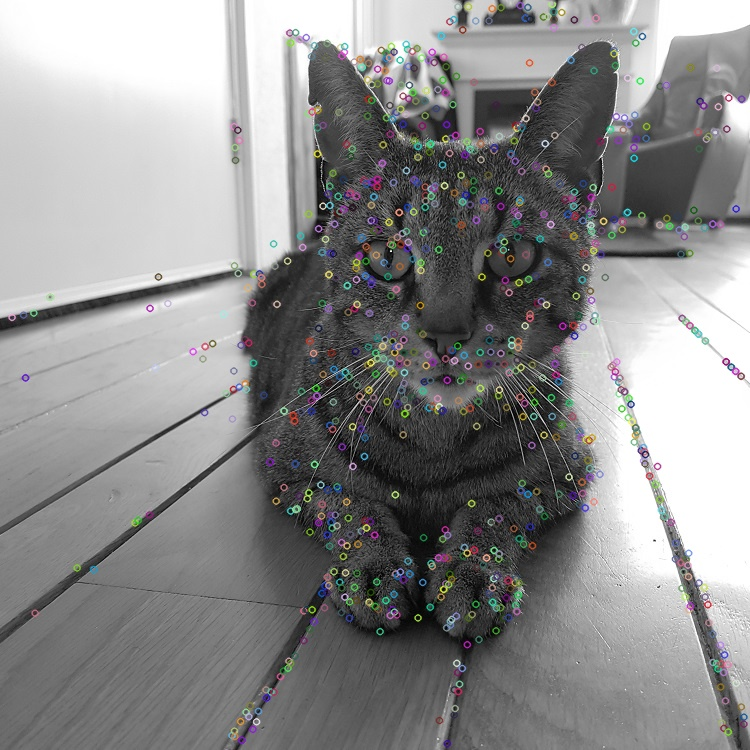
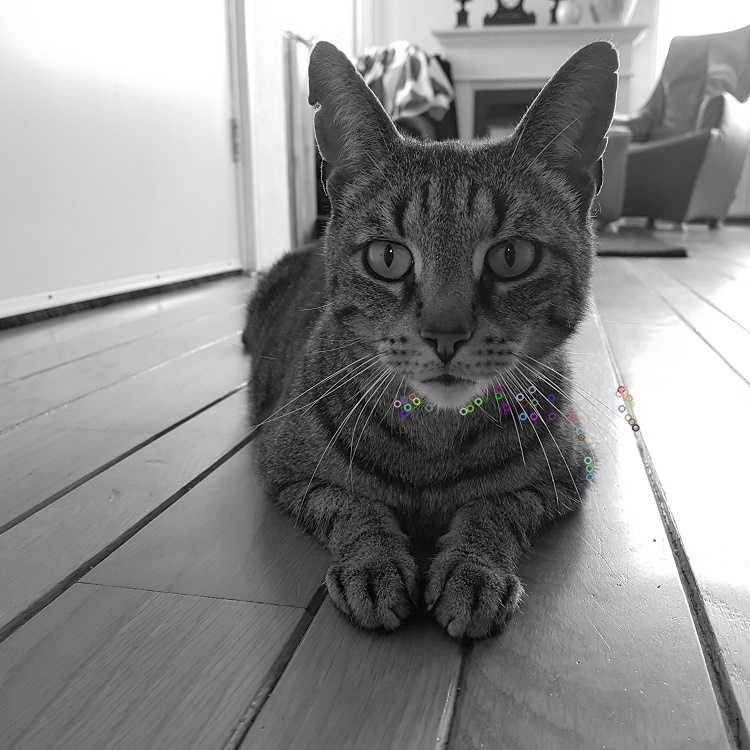
Added selective sift

diff --git a/algorithms/slic.py b/algorithms/slic.py
@@ -20,8 +20,9 @@ def get_image_as_float(filename):
 # returns a 2d list of pixels of the image containing their segment labels from SLIC
 # for optional arguments refer to https://scikit-image.org/docs/dev/api/skimage.segmentation.html?highlight=slic
 def get_pixel_segments(image, number_of_segments, compactness=10.0, max_iter=10, sigma=5):
-    pixels = slic(image, n_segments=number_of_segments, compactness=compactness, max_iter=max_iter, sigma=sigma)
-    return pixels
+    pixel_segments = slic(image, n_segments=number_of_segments, compactness=compactness, max_iter=max_iter, sigma=sigma)
+    print(type(pixel_segments))
+    return pixel_segments
 
 
 # accepts 2d list of pixels containing their segment labels
@@ -36,6 +37,12 @@ def get_segment_pixels(pixel_segments):
     return segments_pixels
 
 
+# accepts 2d list of pixels containing their segment labels and a list of labels,
+# return a 2d mask where pixels are 1 if they are in the labels list or 0 if not
+def get_mask(pixel_segments, labels):
+    return numpy.where(numpy.isin(pixel_segments, labels), 255, 0).astype('uint8')
+
+
 def show_plot(image, pixel_segments):
     fig = matplotlib.pyplot.figure("Superpixels")
     ax = fig.add_subplot(1, 1, 1)
@@ -46,15 +53,19 @@ def show_plot(image, pixel_segments):
 
 def main():
     # construct the argument parser and parse the arguments
-    ap = argparse.ArgumentParser()
-    ap.add_argument("-i", "--image", required=True, help="Path to the image")
-    ap.add_argument("-s", "--segments", type=int, default=300, help="Number of segments")
-    ap.add_argument("--save", type=bool, default=False, help="Save the image?")
-    args = vars(ap.parse_args())
+    parser = argparse.ArgumentParser()
+    parser.add_argument("-i", "--image", required=True, help="Path to the image")
+    parser.add_argument("-s", "--segments", type=int, default=300, help="Number of segments")
+    parser.add_argument("--save", type=bool, default=False, help="Save the image?")
+    parser.add_argument("--labels", nargs='+', type=int, default=0, help="Segment labels for mask")
+    args = vars(parser.parse_args())
 
     image = get_image_as_float(args["image"])
-
     segments = get_pixel_segments(image, args["segments"])
+
+    if args["labels"]:
+        mask = get_mask(segments, args["labels"])
+        io.imsave('mask.png', mask)
 
     if args["save"]:
         io.imsave('super-pixels.png', mark_boundaries(image, segments))

diff --git a/algorithms/sift.py b/algorithms/sift.py
@@ -1,25 +1,46 @@
 import cv2
-import argparse
-import numpy
+import slic
 
 
 def main():
-    # construct the argument parser and parse the arguments
-    ap = argparse.ArgumentParser()
-    ap.add_argument("-i", "--image", required=True, help="Path to the image")
-    args = vars(ap.parse_args())
+    parser = slic.argparse.ArgumentParser()
+    parser.add_argument("--image", required=True, help="Path to the image")
+    parser.add_argument("--segments", type=int, default=300, help="Number of segments")
+    parser.add_argument("--save", help="Save the image?")
+    parser.add_argument("--labels", nargs='+', type=int,
+                        help="Segment labels marking region where features should be detected")
+    args = vars(parser.parse_args())
 
-    img = cv2.imread(args["image"])
-    gray = cv2.cvtColor(img, cv2.COLOR_BGR2GRAY)
+    # generate super-pixel segments from image using SLIC
+    img_float64 = slic.get_image_as_float(args["image"])
+    segments = slic.get_pixel_segments(img_float64, args["segments"])
+
+    # save super-pixel representation or plot it
+    if args["save"]:
+        slic.io.imsave('super-pixels.png', slic.mark_boundaries(img_float64, segments))
+    else:
+        slic.show_plot(img_float64, segments)
+
+    img_uint8 = cv2.imread(args["image"])
+    gray = cv2.cvtColor(img_uint8, cv2.COLOR_BGR2GRAY)
 
     sift = cv2.xfeatures2d_SIFT.create()
-    kp, des = sift.detectAndCompute(gray,None)
 
-    cv2.drawKeypoints(gray, kp, img)
-    cv2.imwrite("sift_keypoints.jpg", img)
+    # detect features at specified super-pixel labels, or over entire image
+    if args["labels"]:
+        mask = slic.get_mask(segments, args["labels"])
+        slic.io.imsave('mask.png', mask)
+        kp, des = sift.detectAndCompute(gray, mask)
+    else:
+        kp, des = sift.detectAndCompute(gray, None)
 
-    cv2.drawKeypoints(gray, kp, img, flags=cv2.DRAW_MATCHES_FLAGS_DRAW_RICH_KEYPOINTS)
-    cv2.imwrite('sift_keypoints_rich.jpg', img)
+    # draw keypoints
+    cv2.drawKeypoints(gray, kp, img_uint8)
+    cv2.imwrite("sift_keypoints.jpg", img_uint8)
+
+    # draw more detailed keypoints
+    cv2.drawKeypoints(gray, kp, img_uint8, flags=cv2.DRAW_MATCHES_FLAGS_DRAW_RICH_KEYPOINTS)
+    cv2.imwrite('sift_keypoints_rich.jpg', img_uint8)
 
 
 if __name__ == '__main__':
